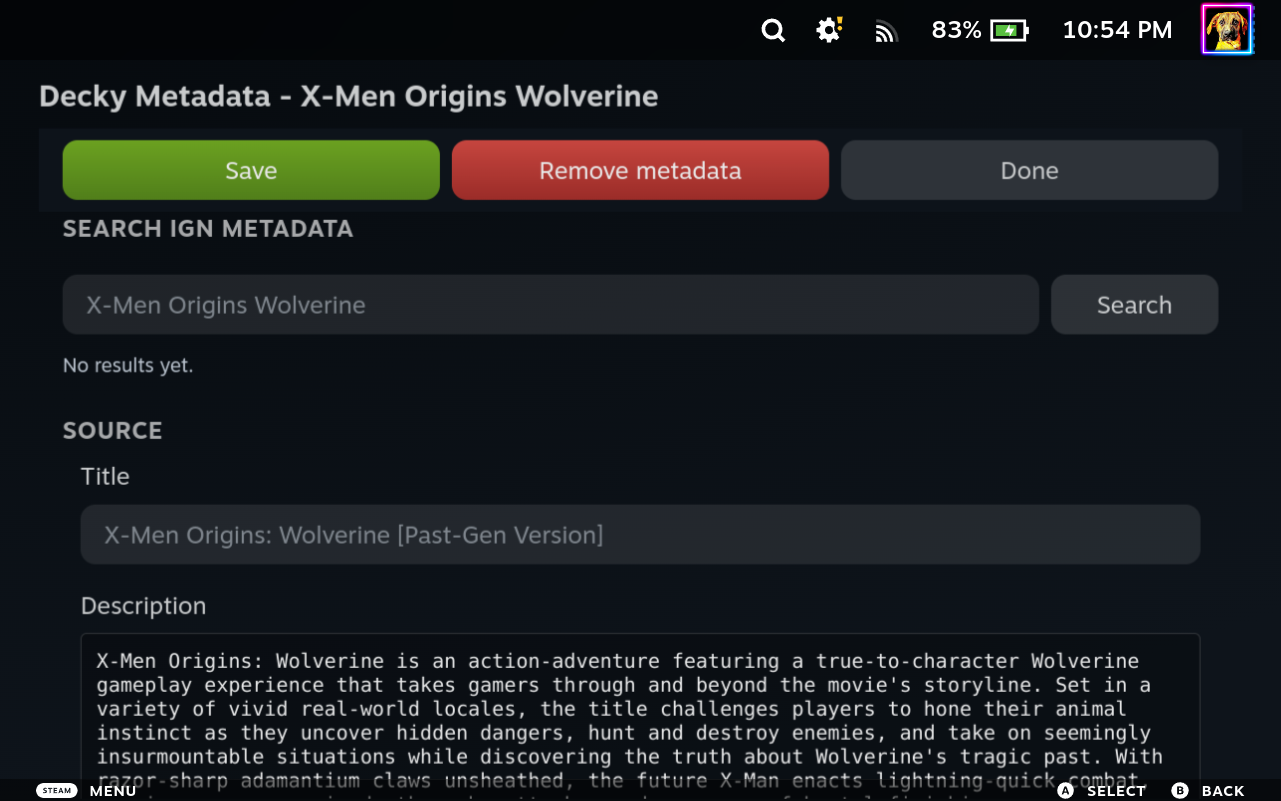
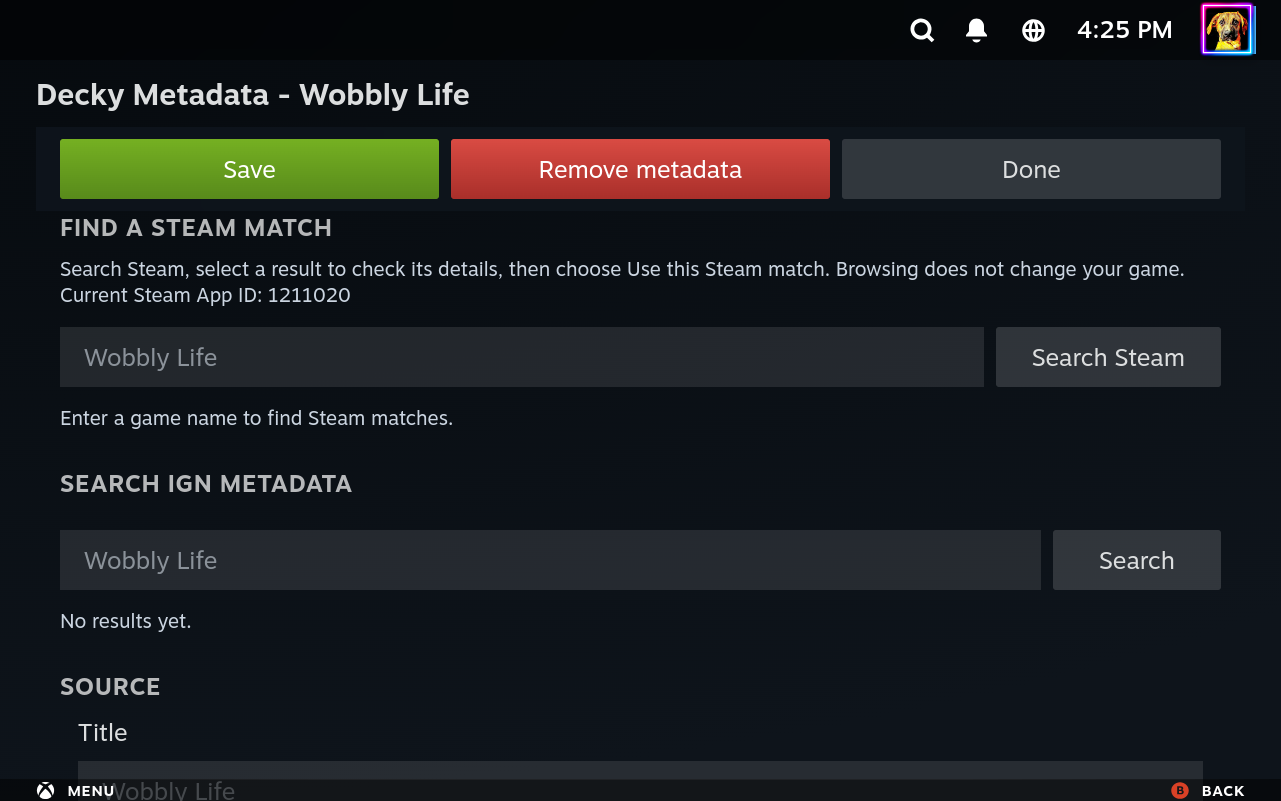
docs(readme): refresh editor and Game Info screenshots, add Store row image
Recaptured on steamdeck-vm (Wobbly Life): the editor now shows the Find a Steam match section, and Game Info shows the short description. New Store row image (Brotato) shows the How Long To Beat and ProtonDB boxes. cacheBuster bumped to 20261115.

diff --git a/assets/README.md b/assets/README.md
@@ -5,13 +5,14 @@ These images are captured from the visual Steam Gaming Mode CDP target with
 then copied here. Keep the stable filenames so README links remain reproducible.
 
 - `decky-metadata-qam.png` — current Metadata controls, cropped to the native Quick Access popup.
-- `decky-metadata-editor.png` — a matched non-Steam game's metadata editor.
+- `decky-metadata-editor.png` — the metadata editor for Wobbly Life, a matched non-Steam game, with the **Find a Steam match** section above **Search IGN metadata**.
 - `decky-metadata-shortcut-name.png` — the editor's shortcut-name preview with the **Use Steam name** button.
-- `decky-metadata-gameinfo-top.png` — the Game Info page for Warhammer 40,000: Space Marine with the description, developer, publisher, and release date.
-- `decky-metadata-gameinfo-buttons.png` — the **Store Page**, **Community Hub**, **Discussions**, **Guides**, and **Steam Deck Compatibility** buttons on the same page.
+- `decky-metadata-gameinfo-top.png` — the Game Info page for Wobbly Life with the HLTB times, the short description, developer, publisher, and release date.
+- `decky-metadata-gameinfo-buttons.png` — the **SteamOS Compatibility** row and the **Store Page**, **DLC**, **Community Hub**, **Points Shop**, **Discussions**, and **Guides** buttons on the same page.
 - `decky-metadata-trailers.webp` — animated: a Hades trailer plays in the header above the HLTB times and Play button.
 - `decky-metadata-mini-achievements.png` — native achievement progress on a Steam game, from the verified live Gaming Mode capture.
 - `decky-metadata-activity-news.png` — Steam Activity news for a matched shortcut.
 - `decky-metadata-community.png` — Steam Community Content cards, a video and a screenshot, for the same matched shortcut.
 - `decky-metadata-controller-layouts.png` — the Load new Layout screen on the **Community Layouts** tab for the same game.
 - `decky-metadata-protondb-badges.png` — community tier icons on the real Library cover grid.
+- `decky-metadata-store-row.png` — the Store info row on the Steam Store page for Brotato, with the **How Long To Beat** box and the **ProtonDB** box. Captured from the Store's own surface, so it is 1281×720 and has no Steam address bar.

diff --git a/README.md b/README.md
@@ -53,7 +53,7 @@ games](docs/help/editing-games.md) for the full steps.
 
 ![Shortcut-name preview and controller-selectable action](assets/decky-metadata-shortcut-name.png?cacheBuster=202610011846)
 
-![Decky Metadata editor for a non-Steam game](assets/decky-metadata-editor.png?cacheBuster=202610011846)
+![Decky Metadata editor for Wobbly Life, a non-Steam game, with the Find a Steam match section](assets/decky-metadata-editor.png?cacheBuster=20261115)
 
 ## What you can see
 
@@ -72,9 +72,9 @@ Older saved timestamps are converted once, keeping their local calendar day.
 Correct an already-wrong date in the editor or import that game's metadata again.
 See [editing games](docs/help/editing-games.md).
 
-![Game Info details for Warhammer 40,000: Space Marine](assets/decky-metadata-gameinfo-top.png?cacheBuster=202610011846)
+![Game Info details for Wobbly Life](assets/decky-metadata-gameinfo-top.png?cacheBuster=20261115)
 
-![Game Info buttons for Warhammer 40,000: Space Marine](assets/decky-metadata-gameinfo-buttons.png?cacheBuster=202610011846)
+![Game Info buttons for Wobbly Life](assets/decky-metadata-gameinfo-buttons.png?cacheBuster=20261115)
 
 ### Compatibility status
 
@@ -105,6 +105,8 @@ See the [ProtonDB guide](docs/help/protondb-badges.md) for controls, matching,
 Store row requirements, and troubleshooting.
 
 ![ProtonDB tier icons on Steam Library game covers](assets/decky-metadata-protondb-badges.png?cacheBuster=20261003)
+
+![Store info row with How Long To Beat times and the ProtonDB rating for Brotato](assets/decky-metadata-store-row.png?cacheBuster=20261115)
 
 ### HowLongToBeat times
 
